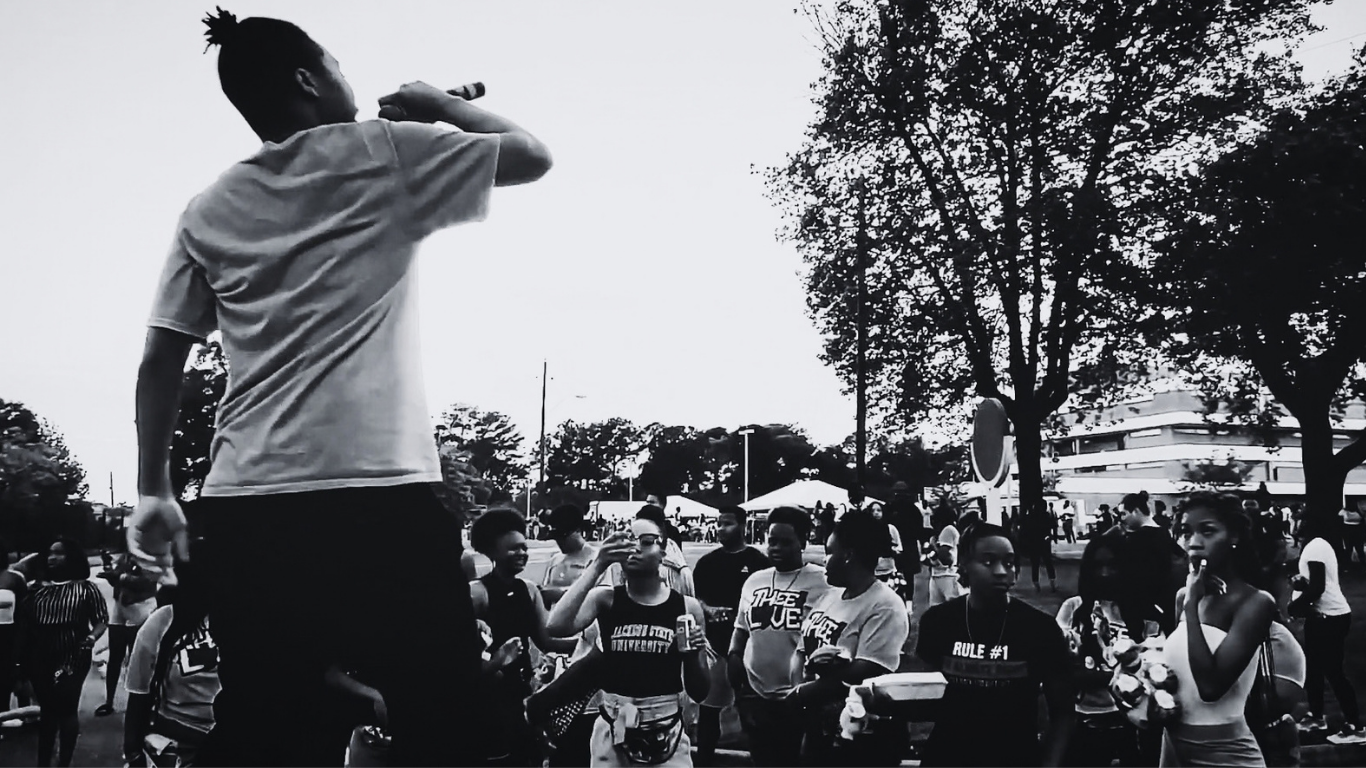
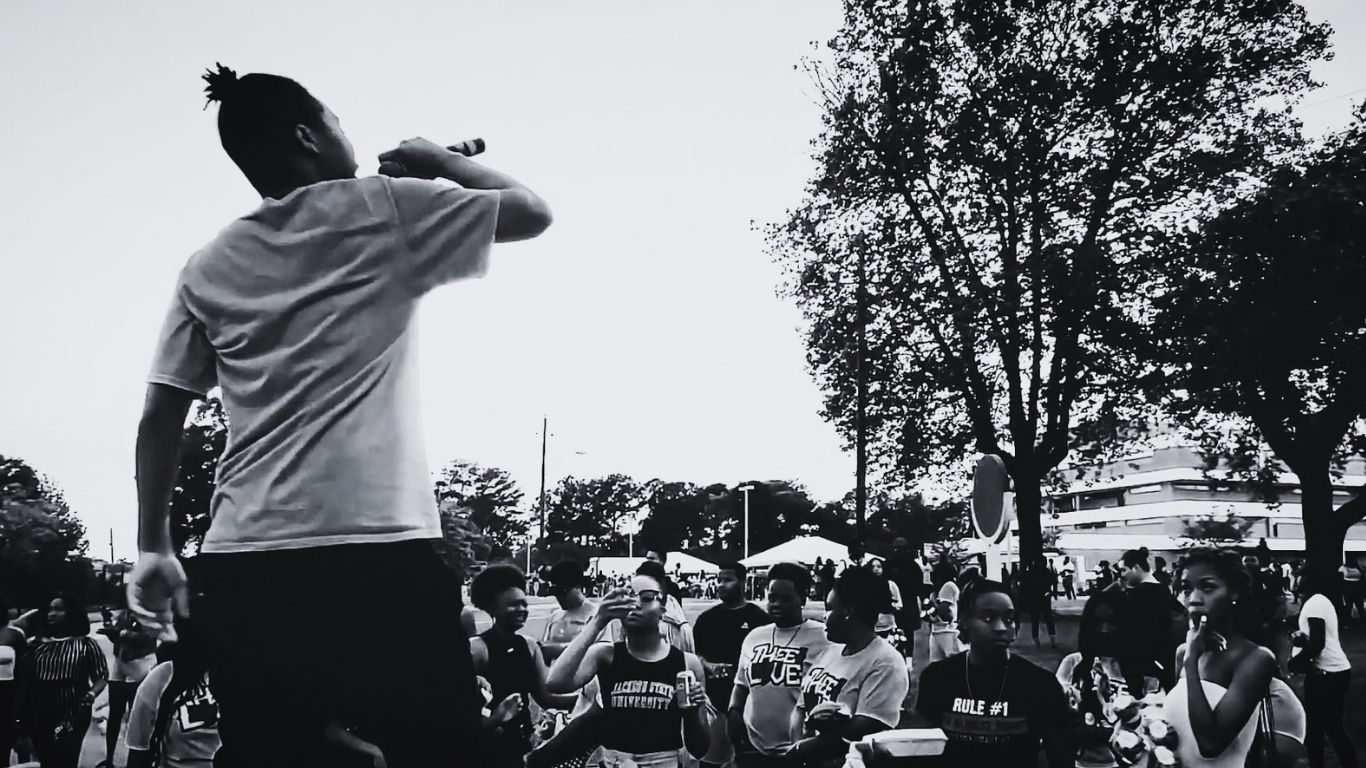
adjust video loop and image sections

diff --git a/home.html b/home.html
@@ -43,18 +43,18 @@
 
       <a href="home.html" class="logo d-flex align-items-center">
         <!-- Uncomment the line below if you also wish to use an image logo -->
-        <!-- <img src="assets/img/logo.webp" alt=""> -->
-        <h1 class="sitename">Personal</h1>
+        <img src="assets/img/logo-name.png" alt="">
+        <h1 class="sitename">Excalibur</h1>
       </a>
 
       <nav id="navmenu" class="navmenu">
         <ul>
           <li><a href="home.html" class="active">Home</a></li>
-          <li><a href="about.html">About</a></li>
-          <li><a href="resume.html">Resume</a></li>
-          <li><a href="services.html">Services</a></li>
-          <li><a href="portfolio.html">Portfolio</a></li>
-          <li class="dropdown"><a href="#"><span>Dropdown</span> <i class="bi bi-chevron-down toggle-dropdown"></i></a>
+          <li><a href="about.html">Bio</a></li>
+          <li><a href="resume.html">Music</a></li>
+          <li><a href="services.html">Shows</a></li>
+          <li><a href="portfolio.html">Visuals</a></li>
+          <li class="dropdown"><a href="#"><span>Contact</span> <i class="bi bi-chevron-down toggle-dropdown"></i></a>
             <ul>
               <li><a href="#">Dropdown 1</a></li>
               <li class="dropdown"><a href="#"><span>Deep Dropdown</span> <i class="bi bi-chevron-down toggle-dropdown"></i></a>
@@ -84,7 +84,7 @@
     <!-- Hero Section -->
     <section id="hero" class="hero section dark-background">
 
-      <video autoplay muted loop>
+      <video autoplay muted loop data-aos="fade-in">
         <source src="assets/img/hero-bg.mp4" type="video/mp4">
       </video>
 
@@ -107,7 +107,7 @@
       <img src="assets/img/split-selections.png" alt="" data-aos="fade-in">
 
       <div class="container" data-aos="zoom-out" data-aos-delay="100">
-        <h2>Emily Jones</h2>
+        <h2>MUSIC</h2>
         <p>I'm <span class="typed" data-typed-items="Designer, Developer, Freelancer, Photographer"></span><span class="typed-cursor typed-cursor--blink"></span></p>
       </div>
 
@@ -121,12 +121,7 @@
       <div class="container" data-aos="zoom-out" data-aos-delay="100">
         <h2>SHOWS</h2>
         <p>I'm <span class="typed" data-typed-items="Designer, Developer, Freelancer, Photographer"></span><span class="typed-cursor typed-cursor--blink"></span></p>
-        <div class="social-links">
-          <a href="#"><i class="bi bi-twitter-x"></i></a>
-          <a href="#"><i class="bi bi-facebook"></i></a>
-          <a href="#"><i class="bi bi-instagram"></i></a>
-          <a href="#"><i class="bi bi-linkedin"></i></a>
-        </div>
+        
       </div>
 
     </section><!-- /Shows Section -->
@@ -139,12 +134,7 @@
       <div class="container" data-aos="zoom-out" data-aos-delay="100">
         <h2>VISUALS</h2>
         <p>I'm <span class="typed" data-typed-items="Designer, Developer, Freelancer, Photographer"></span><span class="typed-cursor typed-cursor--blink"></span></p>
-        <div class="social-links">
-          <a href="#"><i class="bi bi-twitter-x"></i></a>
-          <a href="#"><i class="bi bi-facebook"></i></a>
-          <a href="#"><i class="bi bi-instagram"></i></a>
-          <a href="#"><i class="bi bi-linkedin"></i></a>
-        </div>
+        
       </div>
 
     </section><!-- /Visuals Section -->
